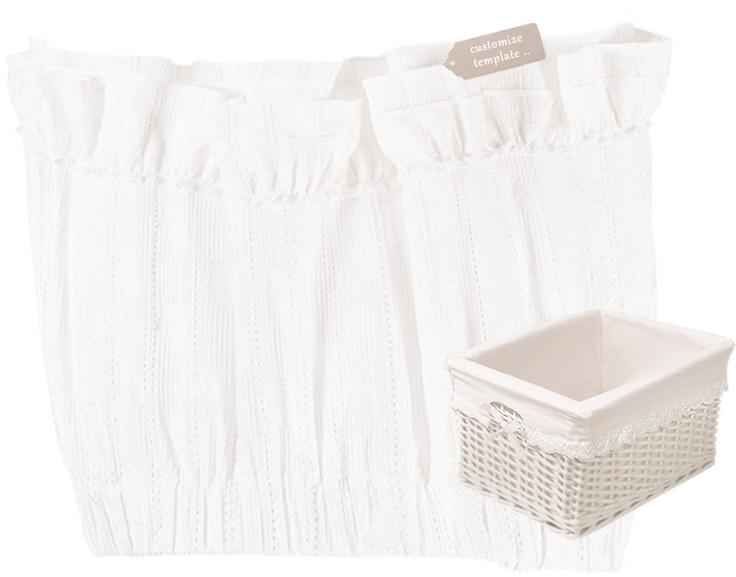
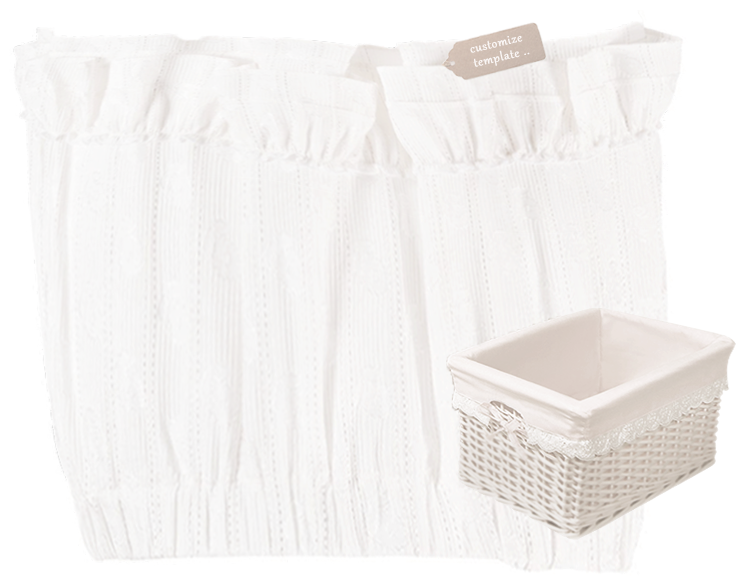
+

diff --git a/index.html b/index.html
@@ -162,12 +162,12 @@ document.execCommand("copy");
     -o-user-select: none;
     user-select: none;" src="topbg.png">
 
-<div id="toptext" oncontextmenu="return false" style="z-index:1; overflow:hidden; text-align:left; line-height: 16px; position:absolute; left:345px; top:90px; width:360px; height:370px; -webkit-user-select: none;-khtml-user-select: none;-moz-user-select: none;-o-user-select: none;user-select: none; font-family:Calibri; font-size:11px; letter-spacing:0.8px; color:#9e8b8a;">
+<div id="toptext" oncontextmenu="return false" style="z-index:1; overflow:hidden; text-align:left; line-height: 16px; position:absolute; left:355px; top:60px; width:360px; height:390px; -webkit-user-select: none;-khtml-user-select: none;-moz-user-select: none;-o-user-select: none;user-select: none; font-family:Calibri; font-size:11px; letter-spacing:0.8px; color:#9e8b8a;">
 <img style="float:left; padding-right:10px; padding-bottom:5px; padding-top:5px;" src="seal.png">
 <font style="font-family:'Gabriola'; color:#c4acab; font-weight:normal; font-size:15px; text-shadow:1px 1px 1px #fff;">do you like mail exchanging ?<br>how about writing virtual letters ?</font><br>
 if yes, you may have noticed how difficult it can be to prepare a cute email, since most platforms have poor integrated tools and limitations to prevent inconsistences between different devices.<br>
 even by coding html there still are some restrictions on how much you can format an email, so it is a bit hard for beginners.<br>
-i love sending cute virtual letters to my friends & family, so i made this template to help those who need. it has a good size for displaying on every device, it's readable, clean, and works.<br>
+i love sending cute virtual letters to my friends & family, so i made this template to help those who need. it's not perfect on every device but it has a good size, it's readable, clean, and works good enough. for smaller screens it looks better when removing 1 out of the 4 sequential lace border images.<br>
 feel free to use and customize it as you like, no credits needed !<br>
 ( linking to this site would be appreciated though )<br><br>
 <font style="font-family:'Gabriola'; color:#c4acab; font-weight:normal; font-size:15px; text-shadow:1px 1px 1px #fff;">instructions for use :</font> <font color="#9c8484">customize the colors and images as you wish, then select & copy the template as it's displayed here, and simply paste it on the "compose" box in your preferred email platform.<br>
